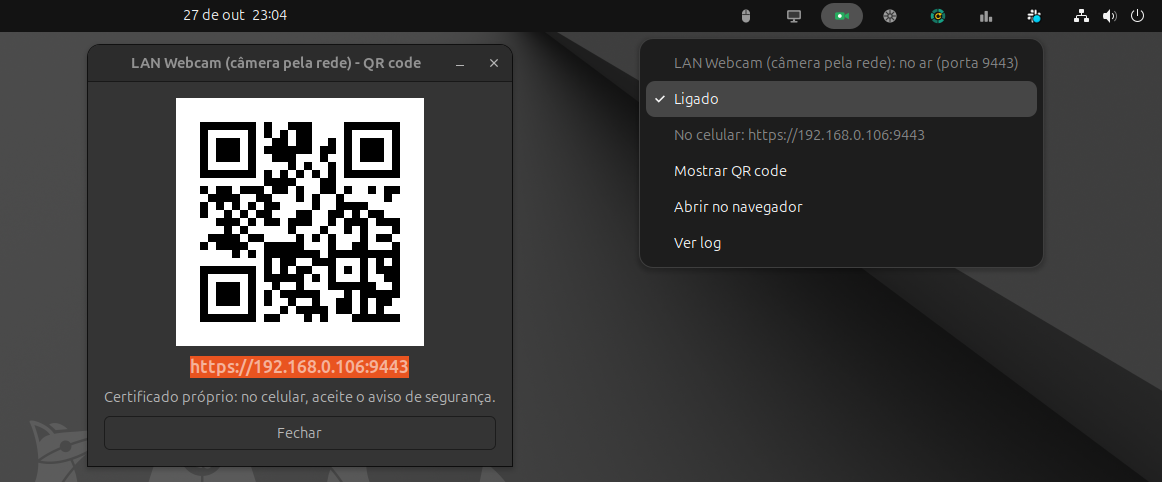
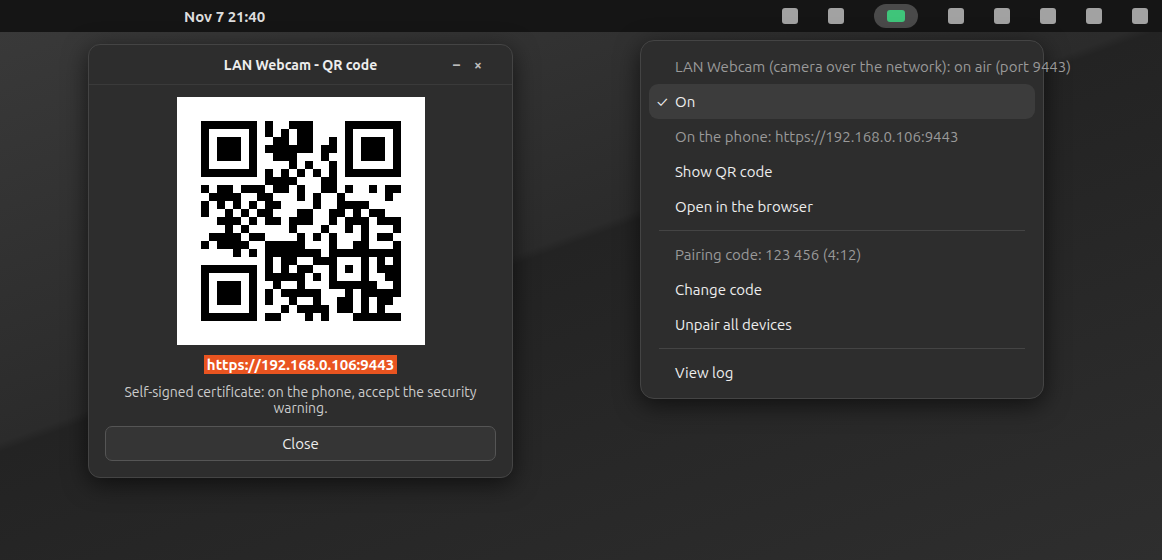
README: a mock-up of the top bar menu with the pairing code, Change code and Unpair all devices

diff --git a/README.md b/README.md
@@ -114,10 +114,11 @@ Built and tested on Ubuntu 24.04.
    login, gray while off. Its menu turns the server on and off; turning it on opens a QR code with
    the address, so the device does not need it typed:
 
-   <img src="docs/tray-qr-code.png" alt="Top bar menu of the webcam icon: on air on port 9443, On (checked), the address for the device, Show QR code, Open in browser, View log; next to it the QR code window with the https address" width="640">
+   <img src="docs/tray-qr-code.png" alt="Top bar menu of the webcam icon: on air on port 9443, On (checked), the address for the phone, Show QR code, Open in the browser, the pairing code with the time it still lasts, Change code, Unpair all devices, View log; next to it the QR code window with the https address" width="640">
 
-   The menu follows the system language (the screenshot is in Brazilian Portuguese: Ligado = On,
-   Mostrar QR code = Show QR code). The address is the PC's local IP, so the QR code only works on
+   The picture is a mock-up of the menu, in English (the menu follows the system language). The
+   pairing code there is the one devices type once; **Change code** gives a new one at once and
+   **Unpair all devices** makes every browser pair again. The address is the PC's local IP, so the QR code only works on
    the same network. Without `python3-segno` the QR window shows only the address.
    `./tray_icon.py --remove` takes the icon out of the login.
    The icon runs on the system python3 and needs `sudo apt install python3-gi gir1.2-gtk-3.0
